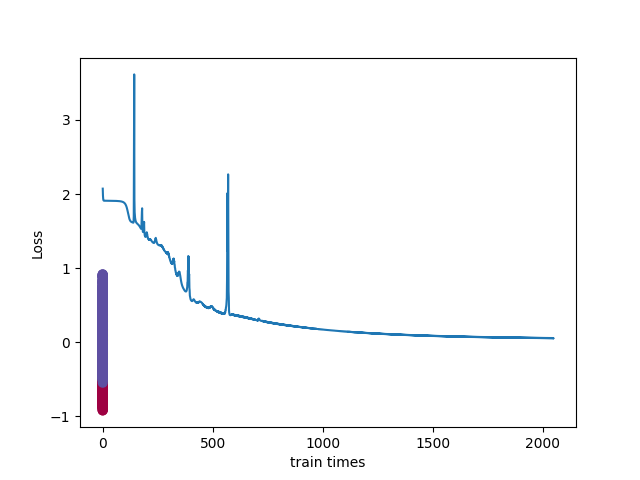
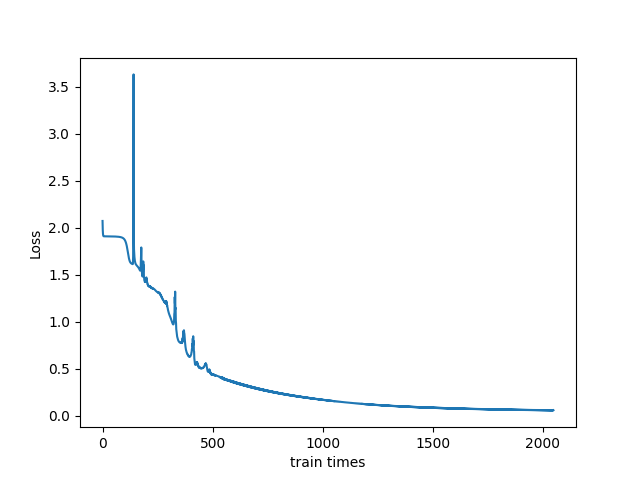
add regularization

diff --git a/ANN_base/Sequential.py b/ANN_base/Sequential.py
@@ -159,31 +159,37 @@ class Sequential:
             activation = self.activations[l - 1]
             self.a[l] = self.activstion_func(activation)(self.z[l])
 
-    def cost_function(self, y: np.ndarray, h: np.ndarray) -> float:
+    def cost_function(self, y: np.ndarray, h: np.ndarray, _lambda: float) -> float:
         """
         Compute the cost function of model
 
         Parameters:
             y: np.ndarray: The real output
             h: np.ndarray: The hypothesis output
+            _lambda: float: The factor of regularization
         """
         m = y.shape[0]
         cost = np.sum(-y * np.log(h) - (1 - y) * np.log(1 - h))
-        return (1 / m) * cost
+        for i in range(y.shape[1]):
+            sub_regularization = np.sum(self.W[i][1:] ** 2)
+        regularization = (_lambda / (2 * m)) * sub_regularization
+        return (1 / m) * cost + regularization
 
-    def backpropagation(self, y: np.ndarray, h: np.ndarray):
+    def backpropagation(self, y: np.ndarray, h: np.ndarray, _lambda):
         """
         Compute the values of model with backpropagation
 
         Parameters:
-
+            y: np.ndarray: The real output
+            h: np.ndarray: The hypothesis output
+            _lambda: float: The factor of regularization
         """
         m = y.shape[0]
         self.da[self.L - 1] = -np.divide(y, h) + np.divide(1 - y, 1 - h)
         for l in reversed(range(1, self.L)):
             activation = self.activations[l - 1]
             self.dz[l] = self.da[l] * self.derivation_func(activation)(self.z[l])
-            self.dW[l] = (1 / m) * (self.dz[l].T @ self.a[l - 1])
+            self.dW[l] = (1 / m) * (self.dz[l].T @ self.a[l - 1]) + (_lambda / m) * self.W[l]
             self.db[l] = (1 / m) * np.sum(self.dz[l], axis=0)
             self.da[l - 1] = self.dz[l] @ self.W[l]
 
@@ -194,6 +200,7 @@ class Sequential:
         Parameters:
             alpha: float: learning rate
         """
+
         for l in range(1, self.L):
             self.W[l] = self.W[l] - alpha * self.dW[l]
             self.b[l] = self.b[l] - alpha * self.db[l]
@@ -215,11 +222,12 @@ class Sequential:
         Train model
         """
         cost_history = []
+        _lambda = 0.1
         for i in range(epochs):
             self.feedforward(X_train)
-            cost_func = self.cost_function(y_train, self.a[self.L - 1])
+            cost_func = self.cost_function(y_train, self.a[self.L - 1], _lambda)
             cost_history.append(cost_func)
-            self.backpropagation(y_train, self.a[self.L - 1])
+            self.backpropagation(y_train, self.a[self.L - 1], _lambda)
             self.update_model(learning_rate)
             print("Training time: ", i + 1, " with loss: ", cost_func)
 
@@ -251,7 +259,7 @@ class Sequential:
         plt.plot(self.loss)
         plt.xlabel('train times')
         plt.ylabel('Loss')
-        fig.show()
+        plt.show()
         fig.savefig("loss.png")
 
     def accuracy(self, x_val: np.ndarray, y_val: np.ndarray):

diff --git a/ANN_base/data.py b/ANN_base/data.py
@@ -25,8 +25,8 @@ def initial_data(N: int = 1000, D: int = 2, K: int = 3, data_name: str = 'data.p
     # lets visualize the data:
     fig = plt.figure(1)
     plt.scatter(X[:, 0], X[:, 1], c=y, s=40, cmap=plt.cm.Spectral)
-    fig.show()
-    fig.savefig(data_name)
+    plt.show()
+    # fig.savefig(data_name)
     return X, y
 
 def remap(y, K):
